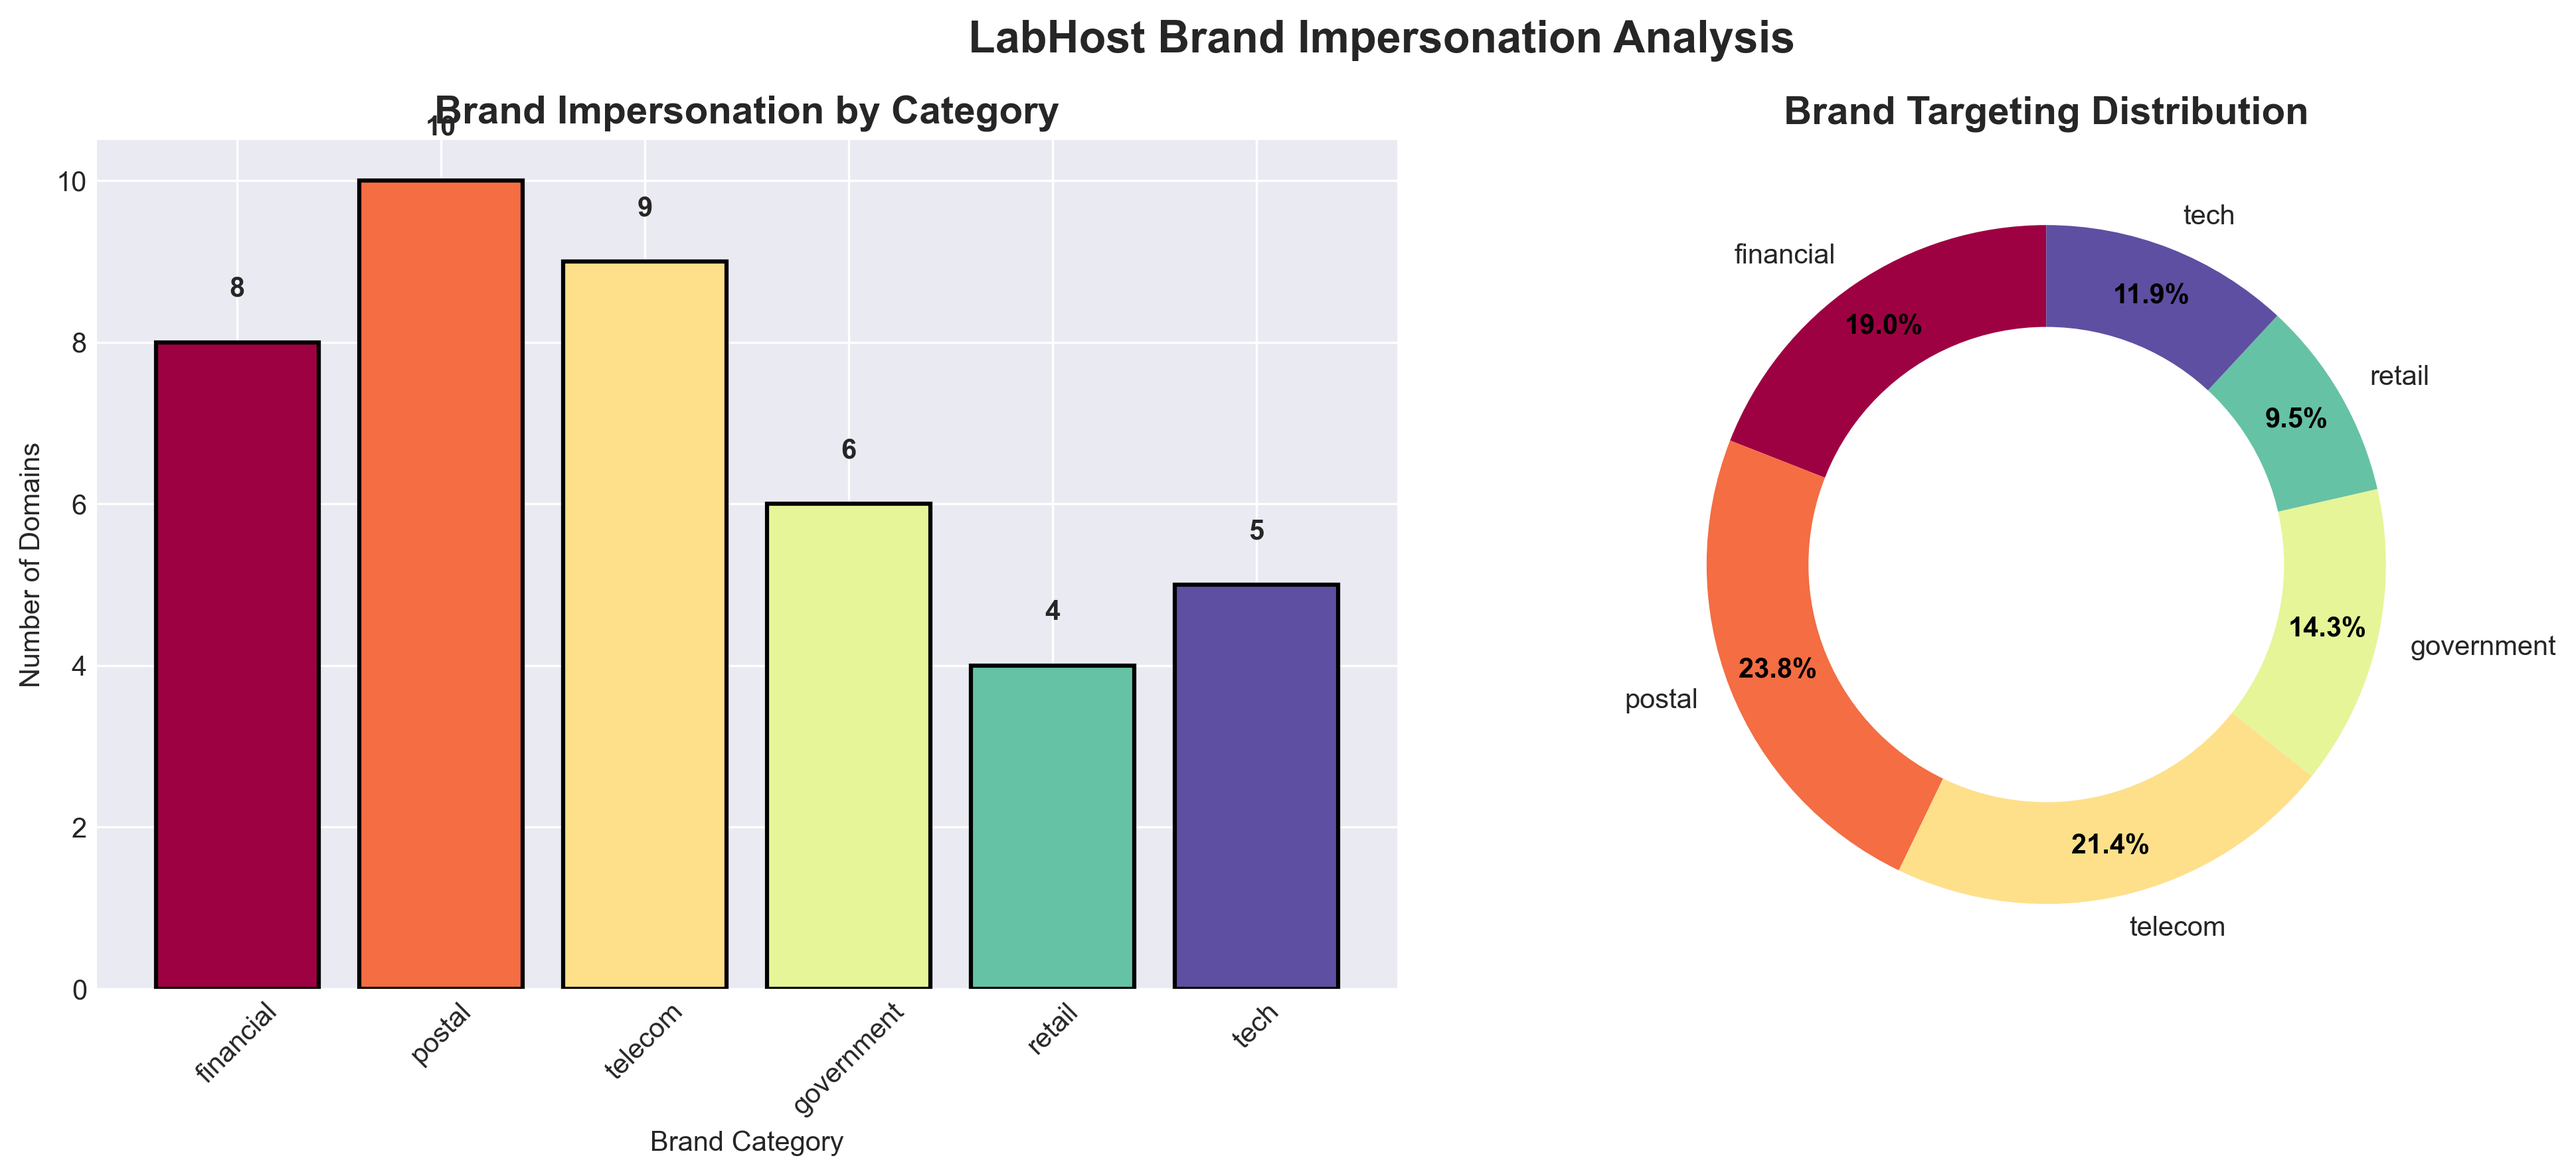
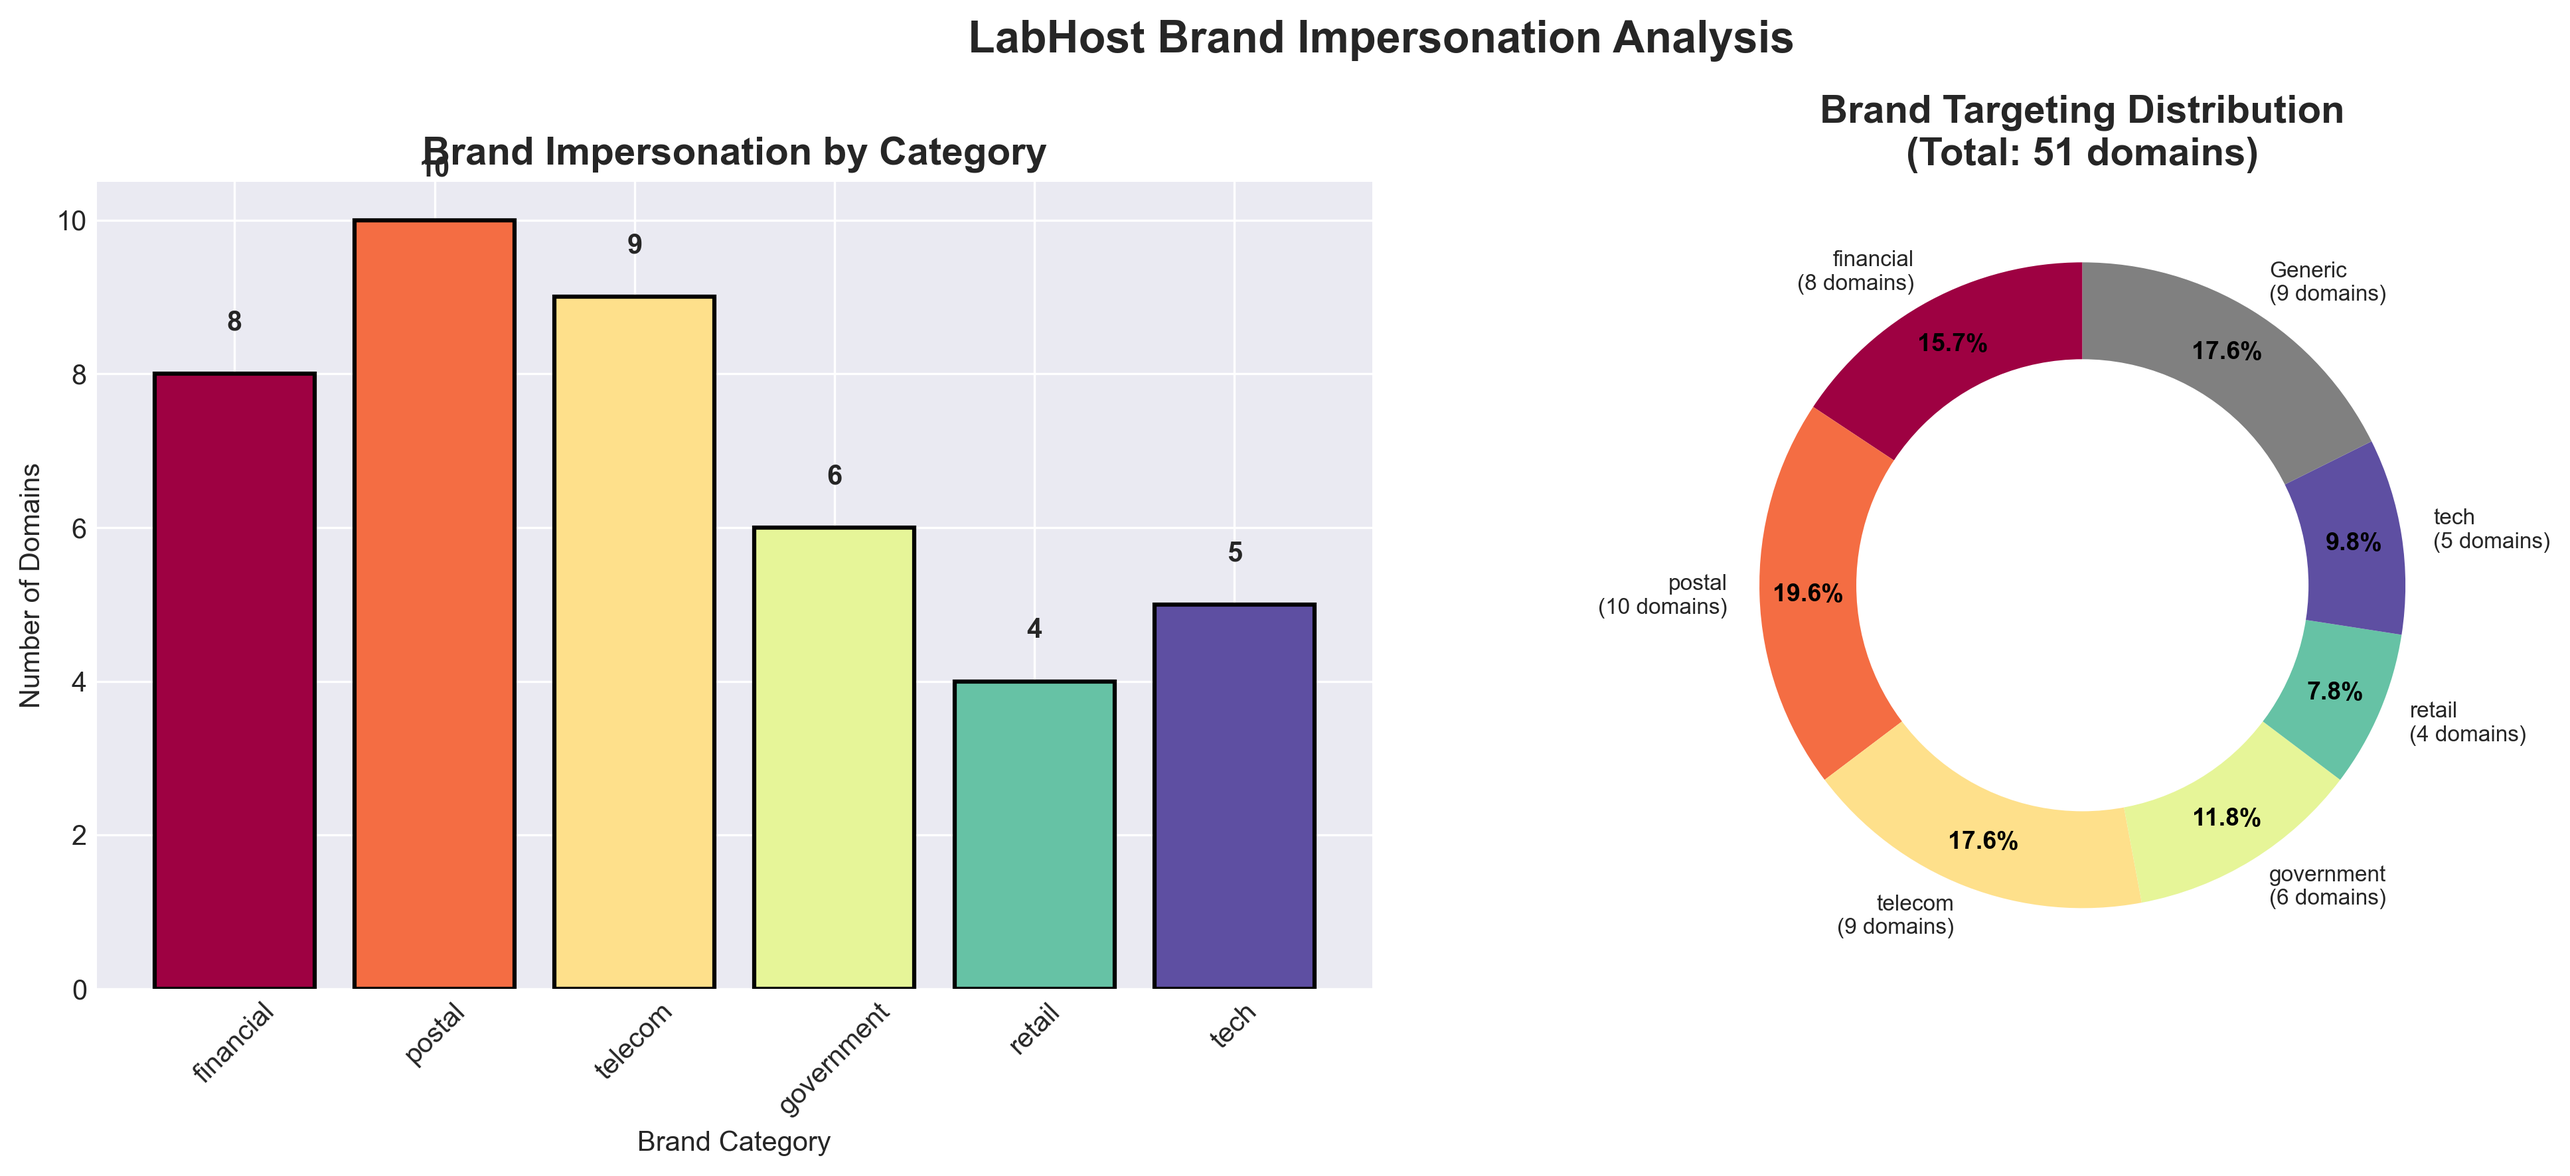
Fixed the code,plots,data set

diff --git a/labhost_measurement.py b/labhost_measurement.py
@@ -360,11 +360,16 @@ def generate_tld_distribution_chart(sample_data, output_path):
     print(f"[+] TLD distribution chart saved to: {output_path}")
 
 def generate_brand_targeting_chart(sample_data, output_path):
-    """Generate brand targeting distribution chart"""
+    """Generate brand targeting distribution chart - FIXED to match table percentages"""
     fig, (ax1, ax2) = plt.subplots(1, 2, figsize=(14, 6))
     
     domains_list = [d['domain'] for d in sample_data]
+    total_domains = len(domains_list)  # Total number of domains analyzed
     brand_counts, detailed_brands = analyze_brand_targeting(domains_list)
+    
+    # Count domains without brand targeting (Generic)
+    total_targeted = sum(brand_counts.values())
+    generic_count = total_domains - total_targeted
     
     # Bar chart
     categories = list(brand_counts.keys())
@@ -382,22 +387,53 @@ def generate_brand_targeting_chart(sample_data, output_path):
         ax1.text(bar.get_x() + bar.get_width()/2., height + 0.5, str(count),
                 ha='center', va='bottom', fontweight='bold')
     
-    # Donut chart
-    filtered_counts = {k: v for k, v in brand_counts.items() if v > 0}
-    if filtered_counts:
-        wedges, texts, autotexts = ax2.pie(filtered_counts.values(), labels=filtered_counts.keys(), 
-                                            autopct='%1.1f%%', colors=colors[:len(filtered_counts)],
+    # FIXED: Donut chart - include Generic category and show percentages based on TOTAL domains
+    # Add Generic category to the data
+    all_categories = {}
+    for cat, count in brand_counts.items():
+        if count > 0:
+            all_categories[cat] = count
+    if generic_count > 0:
+        all_categories['Generic'] = generic_count
+    
+    if all_categories:
+        # Create labels with counts and percentages of total domains
+        labels_with_counts = []
+        values = []
+        chart_colors = []
+        
+        for cat, count in all_categories.items():
+            pct = (count / total_domains) * 100
+            labels_with_counts.append(f'{cat}\n({count} domains)')
+            values.append(count)
+            if cat == 'Generic':
+                chart_colors.append('#808080')  # Gray for Generic
+            else:
+                idx = categories.index(cat) if cat in categories else 0
+                chart_colors.append(colors[idx])
+        
+        # Create the donut chart with percentages based on total domains
+        wedges, texts, autotexts = ax2.pie(values, 
+                                            labels=labels_with_counts,
+                                            autopct=lambda pct: f'{(pct/100*sum(values)/total_domains*100):.1f}%',
+                                            colors=chart_colors,
                                             startangle=90, pctdistance=0.85)
         
         # Create donut
         centre_circle = plt.Circle((0, 0), 0.70, fc='white')
         ax2.add_artist(centre_circle)
-        ax2.set_title('Brand Targeting Distribution', fontsize=14, fontweight='bold')
+        ax2.set_title(f'Brand Targeting Distribution\n(Total: {total_domains} domains)', 
+                     fontsize=14, fontweight='bold')
         
         # Make text more readable
         for autotext in autotexts:
             autotext.set_color('black')
             autotext.set_weight('bold')
+            autotext.set_fontsize(9)
+        
+        # Adjust text label sizes
+        for text in texts:
+            text.set_fontsize(8)
     else:
         ax2.text(0.5, 0.5, 'No brand targeting detected', ha='center', va='center', fontsize=12)
         ax2.set_title('Brand Targeting Distribution', fontsize=14, fontweight='bold')

diff --git a/output/code/analysis_script.py b/output/code/analysis_script.py
@@ -1,3 +1,3 @@
 # This is the complete analysis script
 # See labhost_analysis_fixed.py for full implementation
-# Generated: 2025-11-03 00:21:03
+# Generated: 2025-11-03 10:34:39

diff --git a/output/tables/domain_analysis_summary.md b/output/tables/domain_analysis_summary.md
@@ -1,6 +1,6 @@
 # LabHost Domain Analysis - Detailed Results
 
-**Analysis Date:** 2025-11-03 00:21:05
+**Analysis Date:** 2025-11-03 10:34:42
 **Total Domains Analyzed:** 51
 
 ## Summary Statistics
